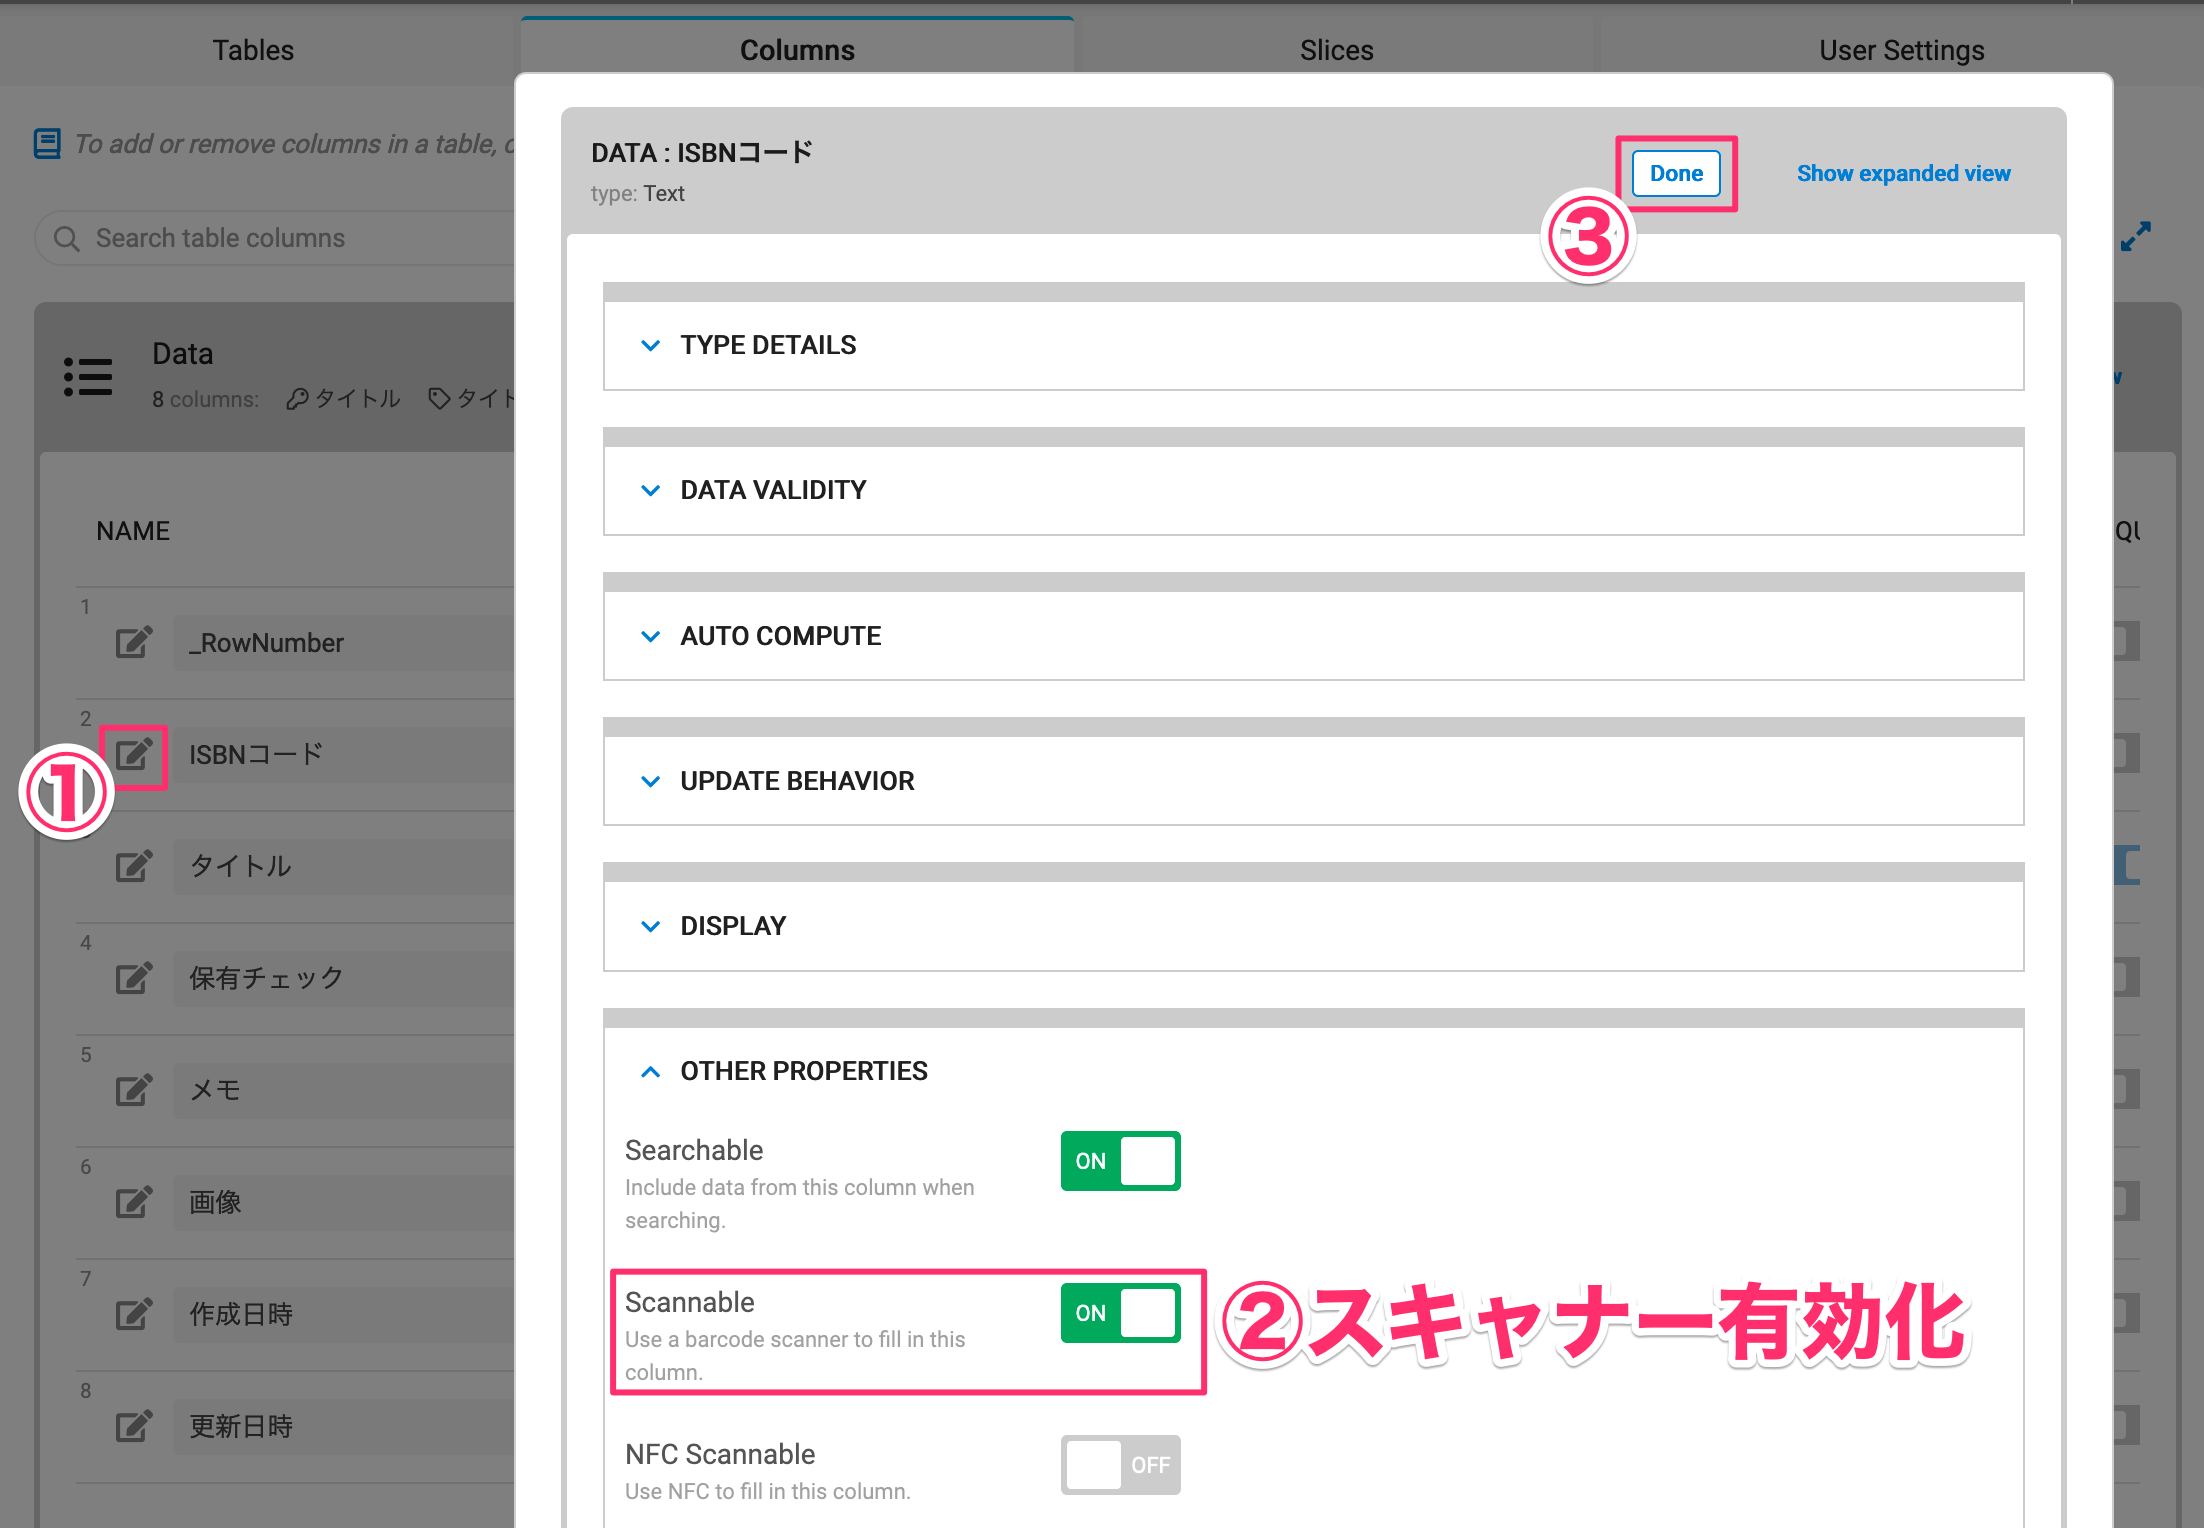
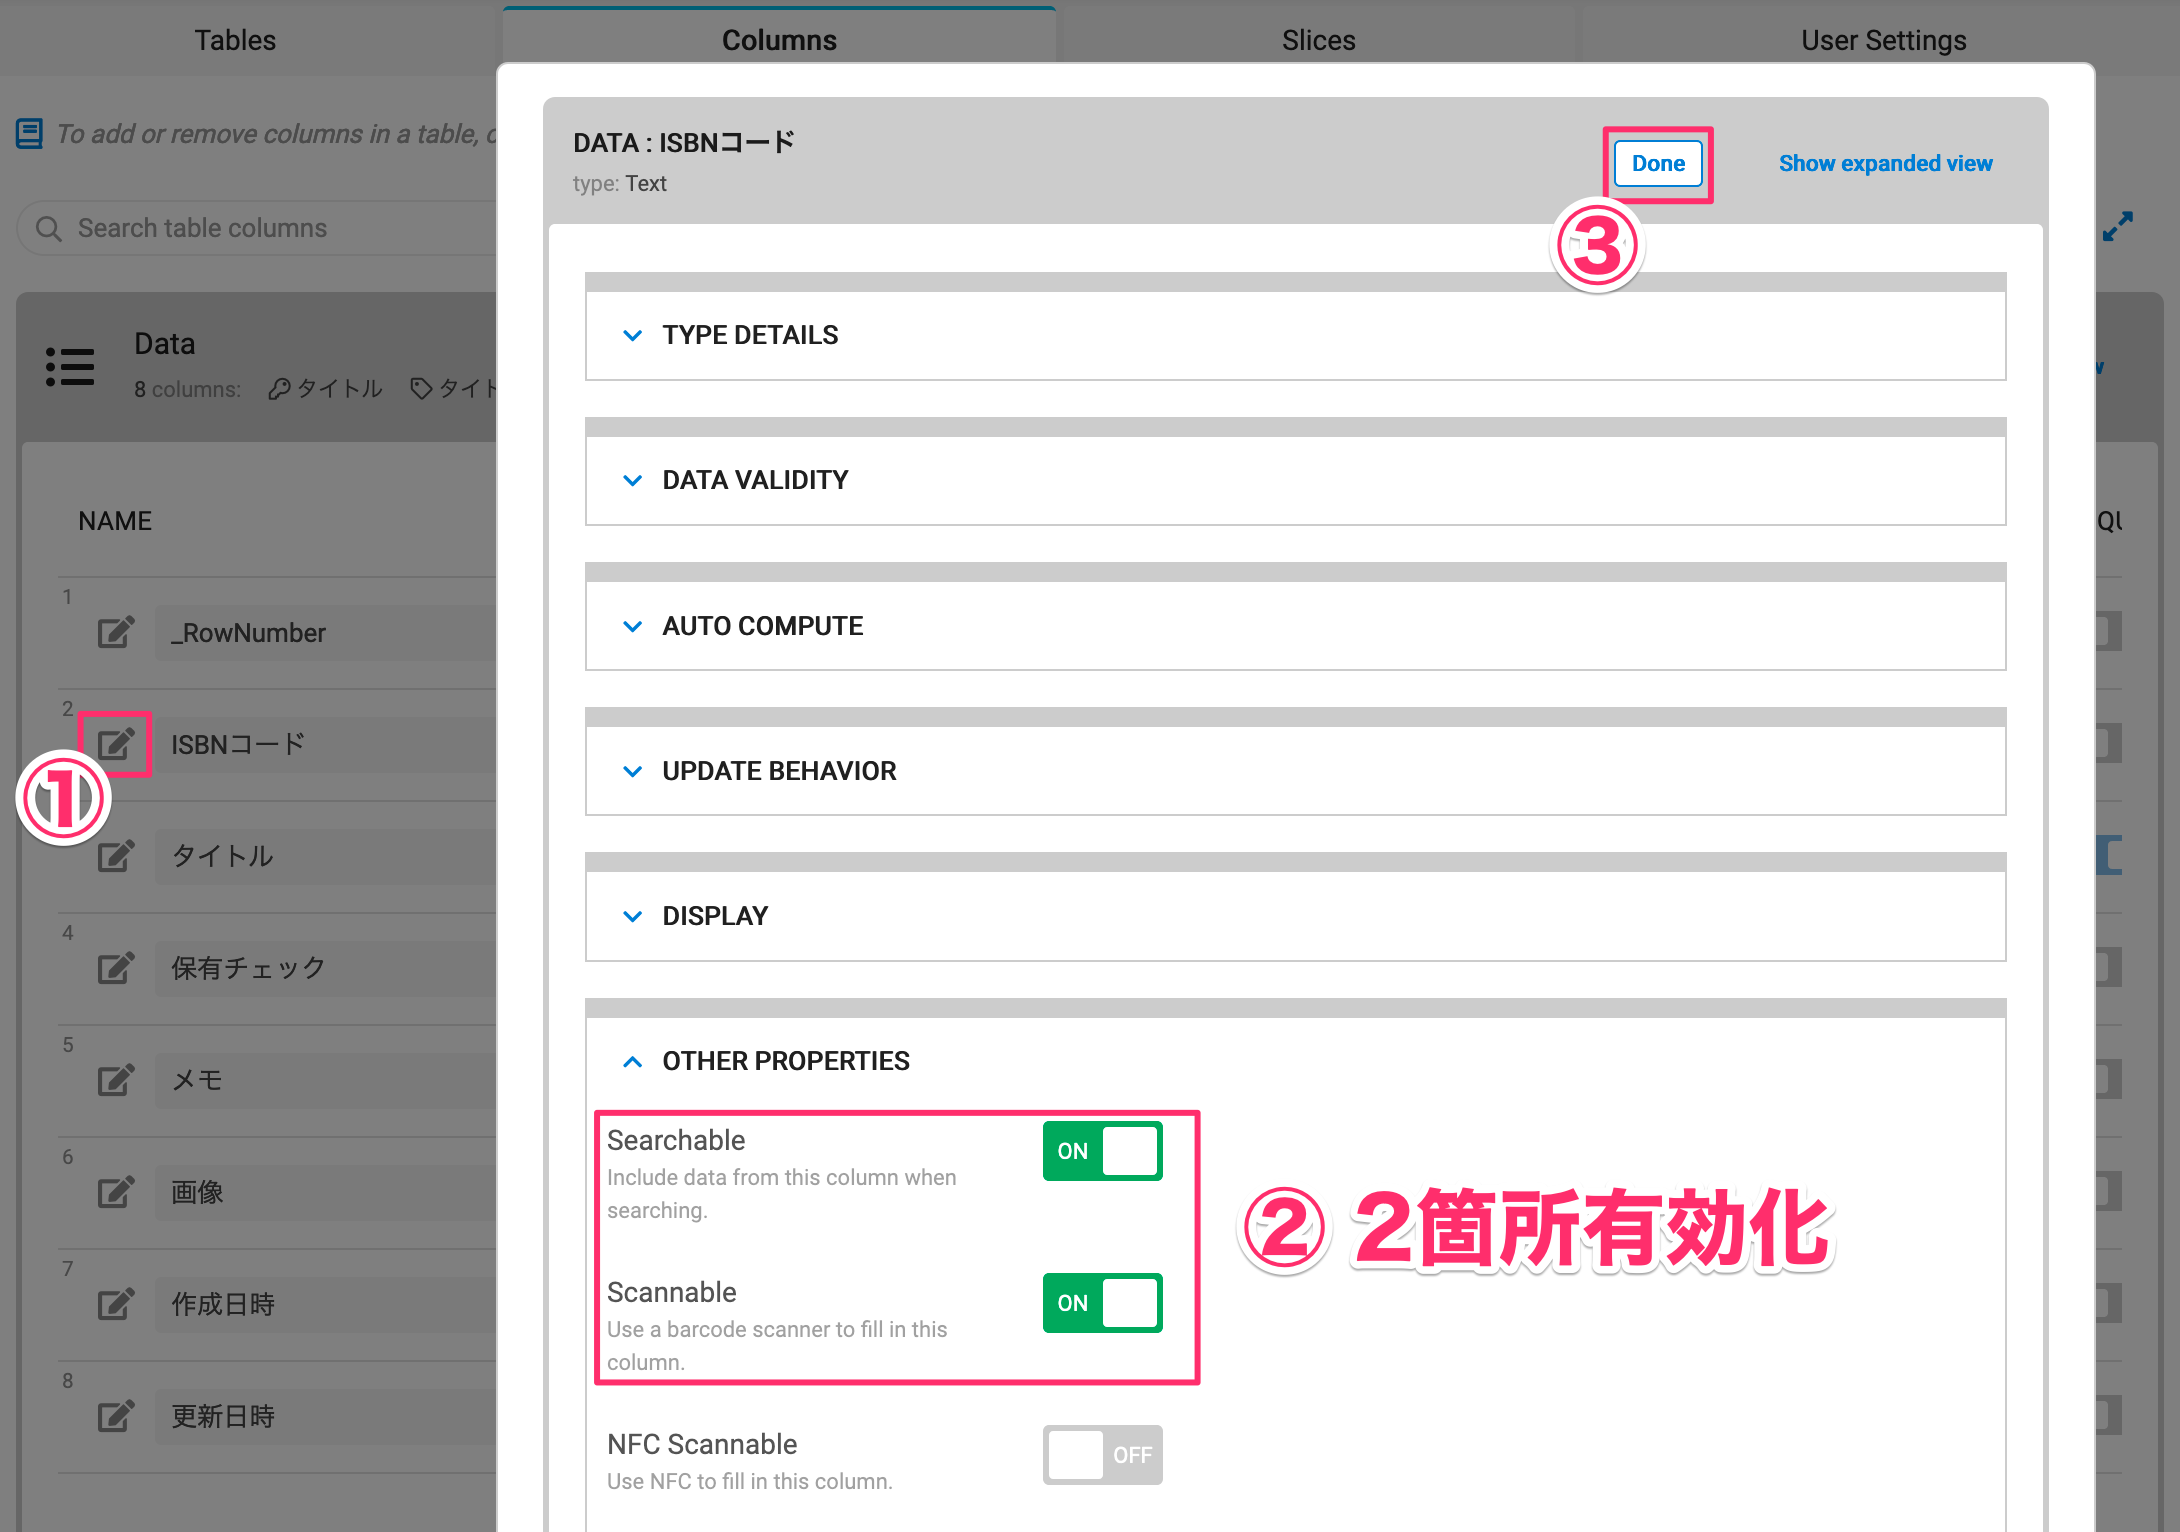
画像更新

Changed region(s): [[0.0, 0.0, 0.9982, 1.0]]

diff --git a/handson.md b/handson.md
@@ -146,7 +146,7 @@ Negative
 
 ![s216](images/s216.png)
 
-さらにそれぞれの項目に詳細設定を行います。まずは「ISBNコード」の左側にある編集ボタンをクリックします。 `OTHER PROPERTIES` 項目にある、 `Scannable` を有効化にしてください。これを有効化するとQRコードやバーコードの読み取りをすることができるようになります。
+さらにそれぞれの項目に詳細設定を行います。まずは「ISBNコード」の左側にある編集ボタンをクリックします。 `OTHER PROPERTIES` 項目にある、`Searchable` 、 `Scannable` をそれぞれ有効化にしてください。`Searchable` は検索対象になります。`Scannable` を有効化するとQRコードやバーコードの読み取りをすることができるようになります。
 
 ![s217](images/s217.png)
 
